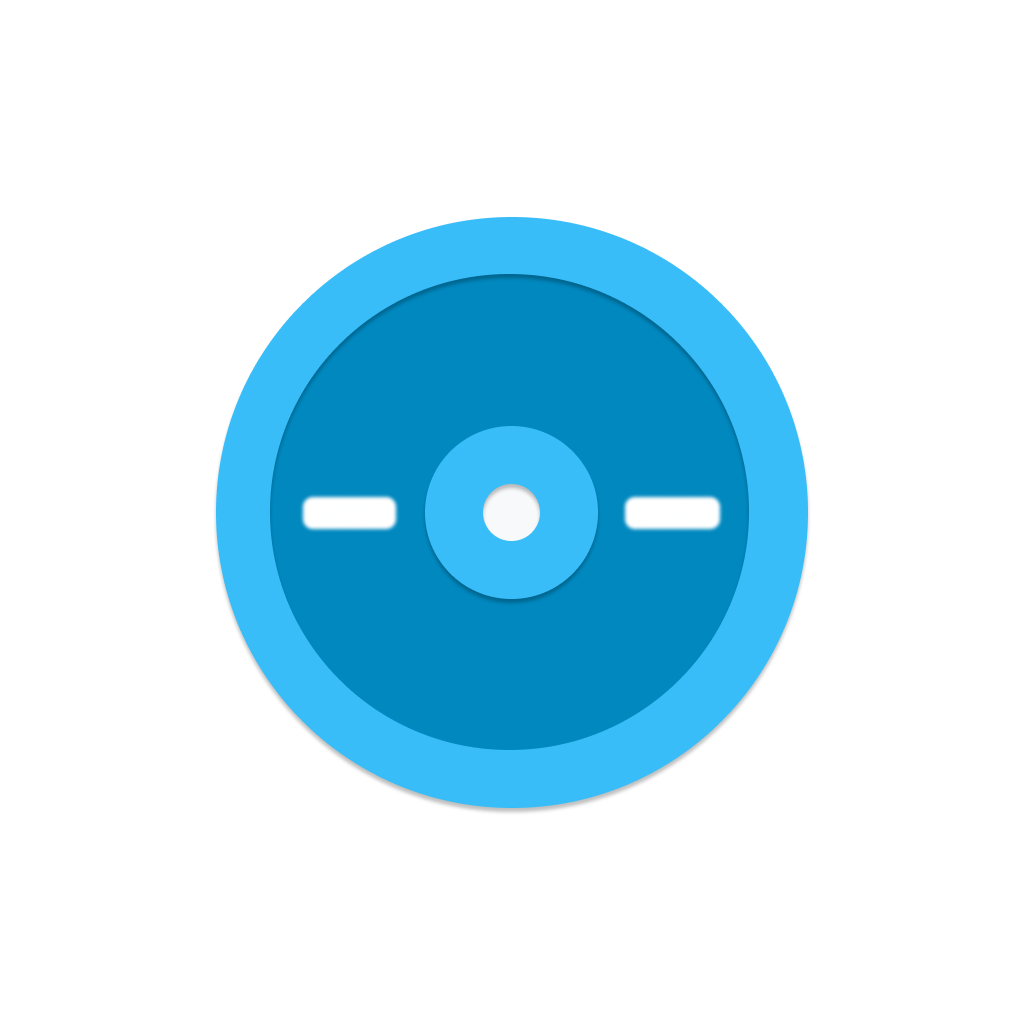
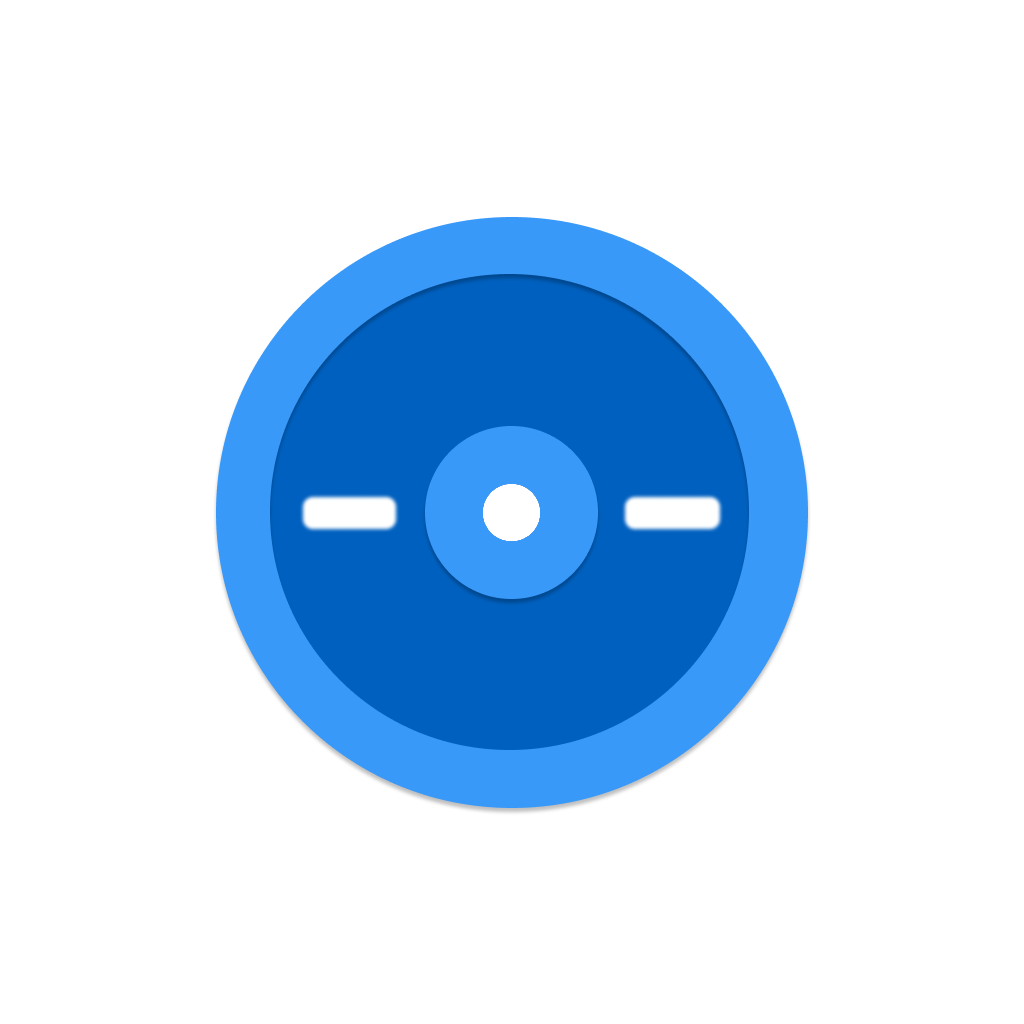
color improvements

Changed region(s): [[0.1875, 0.1875, 0.8125, 0.8125]]

diff --git a/apps/expo/app.config.ts b/apps/expo/app.config.ts
@@ -16,7 +16,7 @@ const {
 const appVersion = packageJson.version;
 const runtimeVersion = appVersion.split(".").slice(0, 2).join(".");
 const appIdSuffix = APP_ENV !== "production" ? `.${APP_ENV}` : "";
-const appIconBackgroundColor = "#0ea5e9";
+const appIconBackgroundColor = "#e7e8e9";
 
 export default ({ config }: ConfigContext): ExpoConfig => {
   return {

diff --git a/tooling/tailwind/theme.css b/tooling/tailwind/theme.css
@@ -5,7 +5,7 @@
   --card-foreground: oklch(0.15 0.1 262);
   --popover: oklch(0.99 0.002 260);
   --popover-foreground: oklch(0.15 0.1 262);
-  --primary: oklch(0.588 0.158 254);
+  --primary: oklch(0.52 0.158 254);
   --primary-foreground: oklch(1 0 0);
   --secondary: oklch(0.588 0.145 71);
   --secondary-foreground: oklch(1 0 0);
